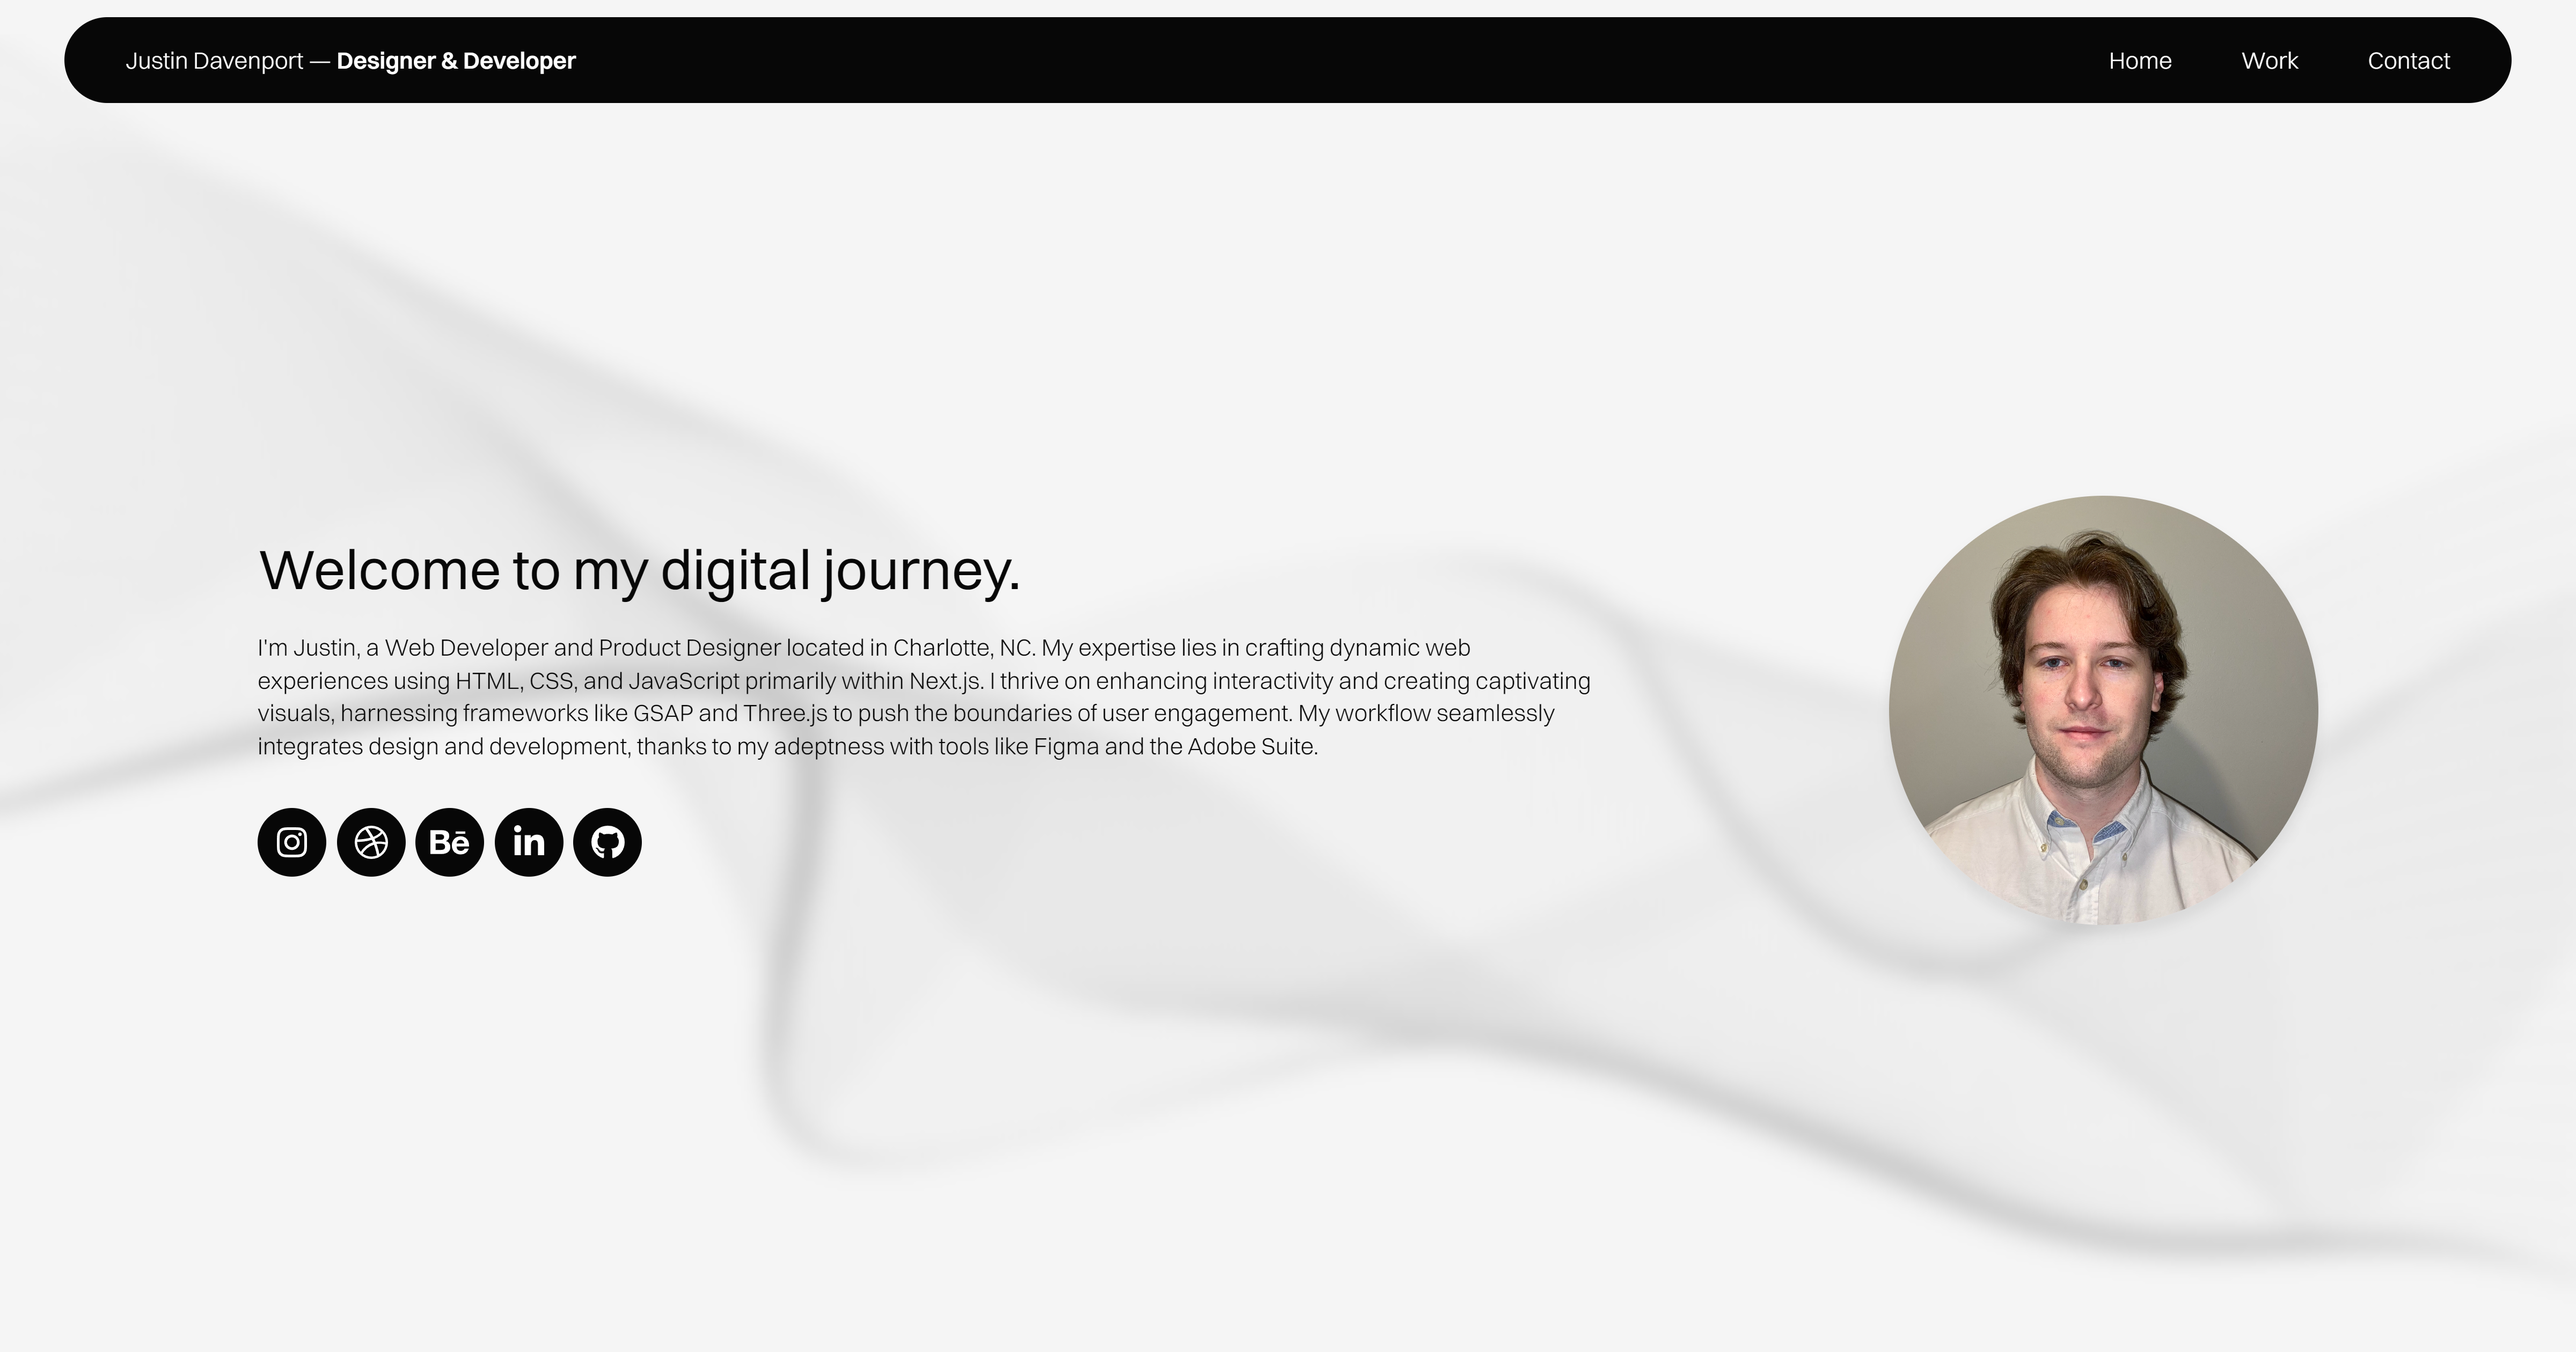
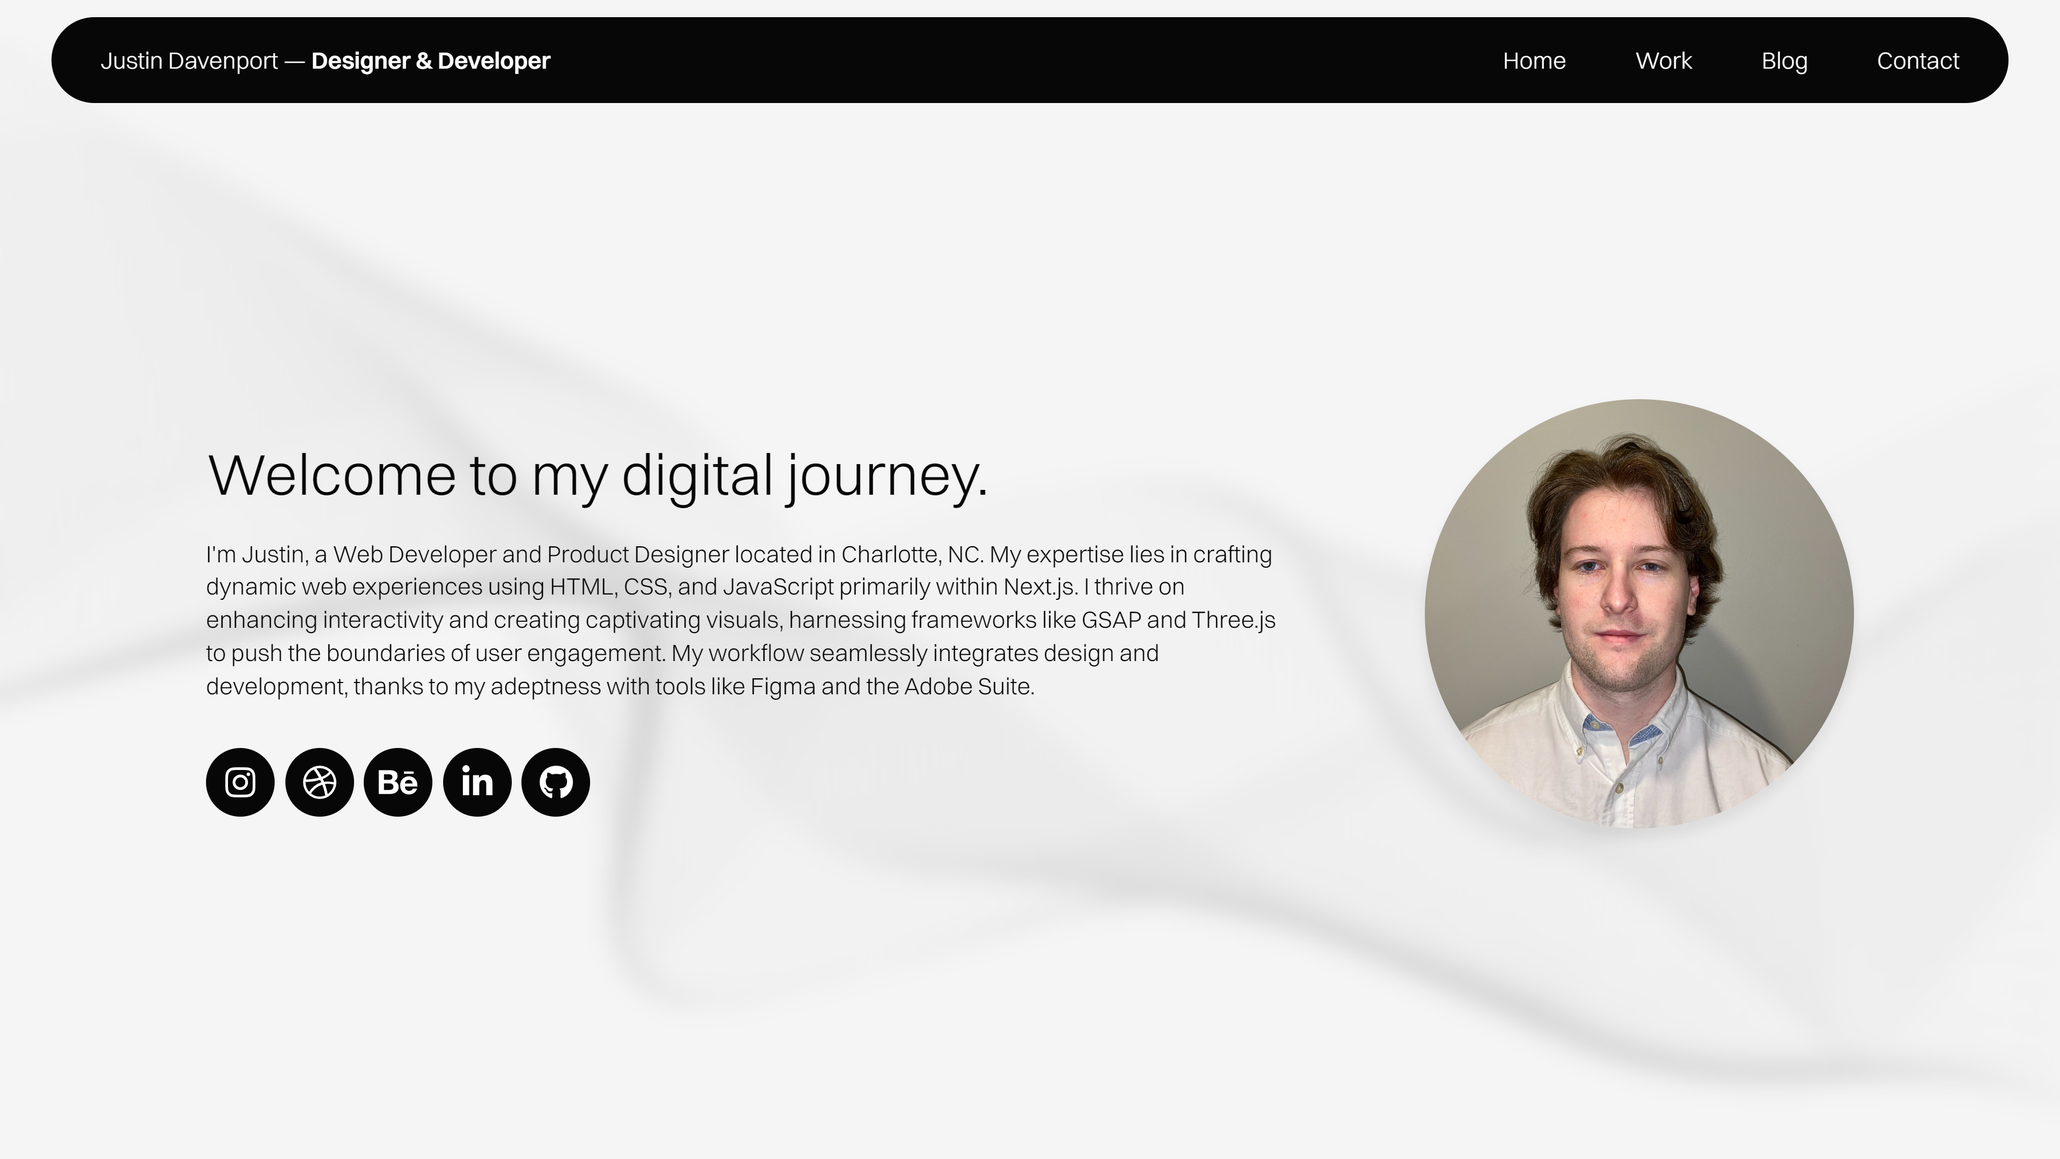
.

diff --git a/src/app/page.tsx b/src/app/page.tsx
@@ -5,6 +5,7 @@ import Link from "next/link";
 export default function Home() {
   const aboutDiv = useRef<HTMLDivElement>(null);
   const workDiv = useRef<HTMLDivElement>(null);
+  const blogDiv = useRef<HTMLDivElement>(null);
   const contactDiv = useRef<HTMLDivElement>(null);
 
   const scrollTo = (ref: React.RefObject<HTMLDivElement>) => {
@@ -65,6 +66,7 @@ export default function Home() {
                 Home
               </button>
               <button onClick={() => scrollTo(workDiv)}>Work</button>
+              <button onClick={() => scrollTo(blogDiv)}>Blog</button>
               <button
                 // onClick={() => scrollTo(contactDiv)}
                 onClick={() =>
@@ -91,7 +93,7 @@ export default function Home() {
           backgroundSize: "100% 100%",
           mixBlendMode: "multiply",
           position: "fixed",
-          opacity: "0.2",
+          opacity: "0.15",
         }}
       ></div>
       <div
@@ -604,6 +606,67 @@ export default function Home() {
                 }}
               >
                 2023
+              </b>
+            </p>
+          </div>
+        </div>
+      </div>
+
+      <div
+        className="container-holder"
+        style={{ minHeight: "0", marginBottom: "0" }}
+      >
+        <div className="container" style={{ paddingTop: "8rem" }} ref={blogDiv}>
+          {/* <span className="header">WORK</span> */}
+          <h2>A collection of recent posts.</h2>
+        </div>
+      </div>
+
+      <div className="container-holder">
+        <div
+          className="container-holder"
+          style={{
+            minHeight: "0",
+            gap: "2rem 2rem",
+            alignItems: "flex-start",
+            width: "95%",
+          }}
+        >
+          <div
+            style={{
+              display: "flex",
+              flexDirection: "column",
+              justifyContent: "center",
+              marginBottom: "2rem",
+              alignItems: "center",
+            }}
+          >
+            <Link
+              href="https://medium.com/@justindavenport.space/create-a-product-landing-page-with-gsap-in-next-js-9403e29b89d8"
+              target="_blank"
+              rel="noopener noreferrer"
+              style={{ opacity: 1, lineHeight: "0" }}
+            >
+              <img
+                className="img-lg"
+                src="/tutorial.png"
+                width={1215}
+                height={2160}
+                alt={""}
+              />
+            </Link>
+            <br />
+            <span>Article</span>
+            <p>
+              Create a product landing page with GSAP in Next.js &middot;{" "}
+              <b
+                style={{
+                  lineHeight: "0",
+                  fontWeight: "500",
+                  fontSize: "clamp(14px, 4vw, 18px)",
+                }}
+              >
+                Next.js, GSAP
               </b>
             </p>
           </div>

diff --git a/src/app/globals.css b/src/app/globals.css
@@ -58,9 +58,9 @@
   }
 
   h2 {
-    font-weight: 400;
+    font-weight: 300;
     line-height: 1.4;
-    font-size: clamp(28px, 4vw, 52px);
+    font-size: clamp(28px, 4vw, 54px);
   }
 
   p {
